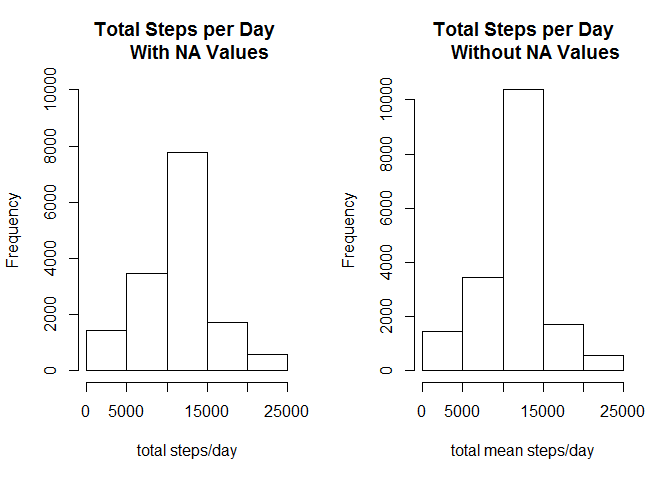
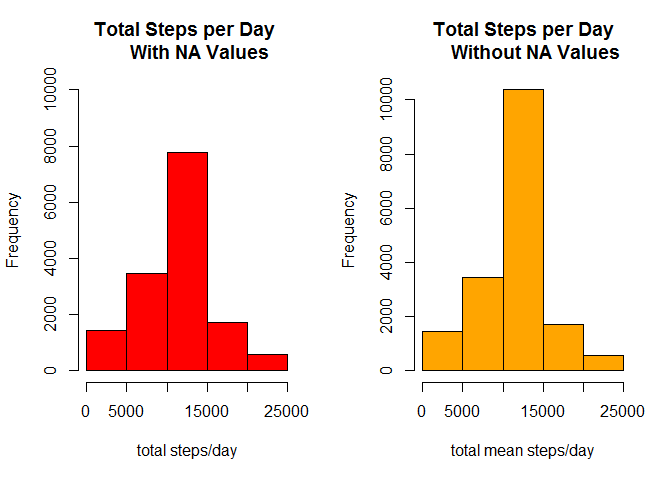
MISC ERRORS CORRECTED

Changed region(s): [[0.625, 0.1875, 0.9375, 0.7812], [0.125, 0.3125, 0.4375, 0.7812]]

diff --git a/PA1_template.html b/PA1_template.html
@@ -101,8 +101,9 @@ activity_data$date &lt;- ymd(activity_data$date)</code></pre>
 <p>We then plot total steps per day:</p>
 <pre class="r"><code>hist(steps_per_day$total_steps, breaks=7,
      main = &quot;Total Steps per Day&quot;, 
-     xlab = &quot;total steps/day&quot;)</code></pre>
[1 lines of base64/hex data omitted]
+     xlab = &quot;total steps/day&quot;,
+     col = &quot;Red&quot;)</code></pre>
[1 lines of base64/hex data omitted]
 <p>It looks normally distributed, with between 10,000 and 15,000 being the most most common count of total steps in a day.</p>
 <p>The mean and median of the total steps per day can now be calculated.</p>
 <pre class="r"><code>mean_total_steps &lt;- as.integer(mean(steps_per_day$total_steps, na.rm=TRUE))
@@ -185,14 +186,16 @@ hist(steps_per_day$total_steps, breaks=7,
      ylim=c(1,10000),
      main = &quot;Total Steps per Day 
      With NA Values&quot;,
-     xlab = &quot;total steps/day&quot;)
+     xlab = &quot;total steps/day&quot;,
+     col=&quot;Red&quot;)
 
 ##Without NA Values
 hist(steps_per_day_na$total_steps, breaks=7,
      main = &quot;Total Steps per Day
      Without NA Values&quot;,
-     xlab = &quot;total mean steps/day&quot;)</code></pre>
[1 lines of base64/hex data omitted]
+     xlab = &quot;total mean steps/day&quot;,
+     col =&quot;Orange&quot;)</code></pre>
[1 lines of base64/hex data omitted]
 <p>We can distinctly see that while the data appears to be normally distributed in both, replacing the missing values lead to higher counts of steps per day in the most frequent category, 10,000-15,000 steps per day.</p>
 <p>Furthermore, we should look at a comparison between the mean and median of the data.</p>
 <pre class="r"><code>##With NA Values

diff --git a/PA1_template.md b/PA1_template.md
@@ -69,7 +69,8 @@ We then plot total steps per day:
 ```r
 hist(steps_per_day$total_steps, breaks=7,
      main = "Total Steps per Day", 
-     xlab = "total steps/day")
+     xlab = "total steps/day",
+     col = "Red")
 ```
 
 ![](PA1_template_files/figure-html/unnamed-chunk-4-1.png) 
@@ -217,13 +218,15 @@ hist(steps_per_day$total_steps, breaks=7,
      ylim=c(1,10000),
      main = "Total Steps per Day 
      With NA Values",
-     xlab = "total steps/day")
+     xlab = "total steps/day",
+     col="Red")
 
 ##Without NA Values
 hist(steps_per_day_na$total_steps, breaks=7,
      main = "Total Steps per Day
      Without NA Values",
-     xlab = "total mean steps/day")
+     xlab = "total mean steps/day",
+     col ="Orange")
 ```
 
 ![](PA1_template_files/figure-html/unnamed-chunk-12-1.png) 
